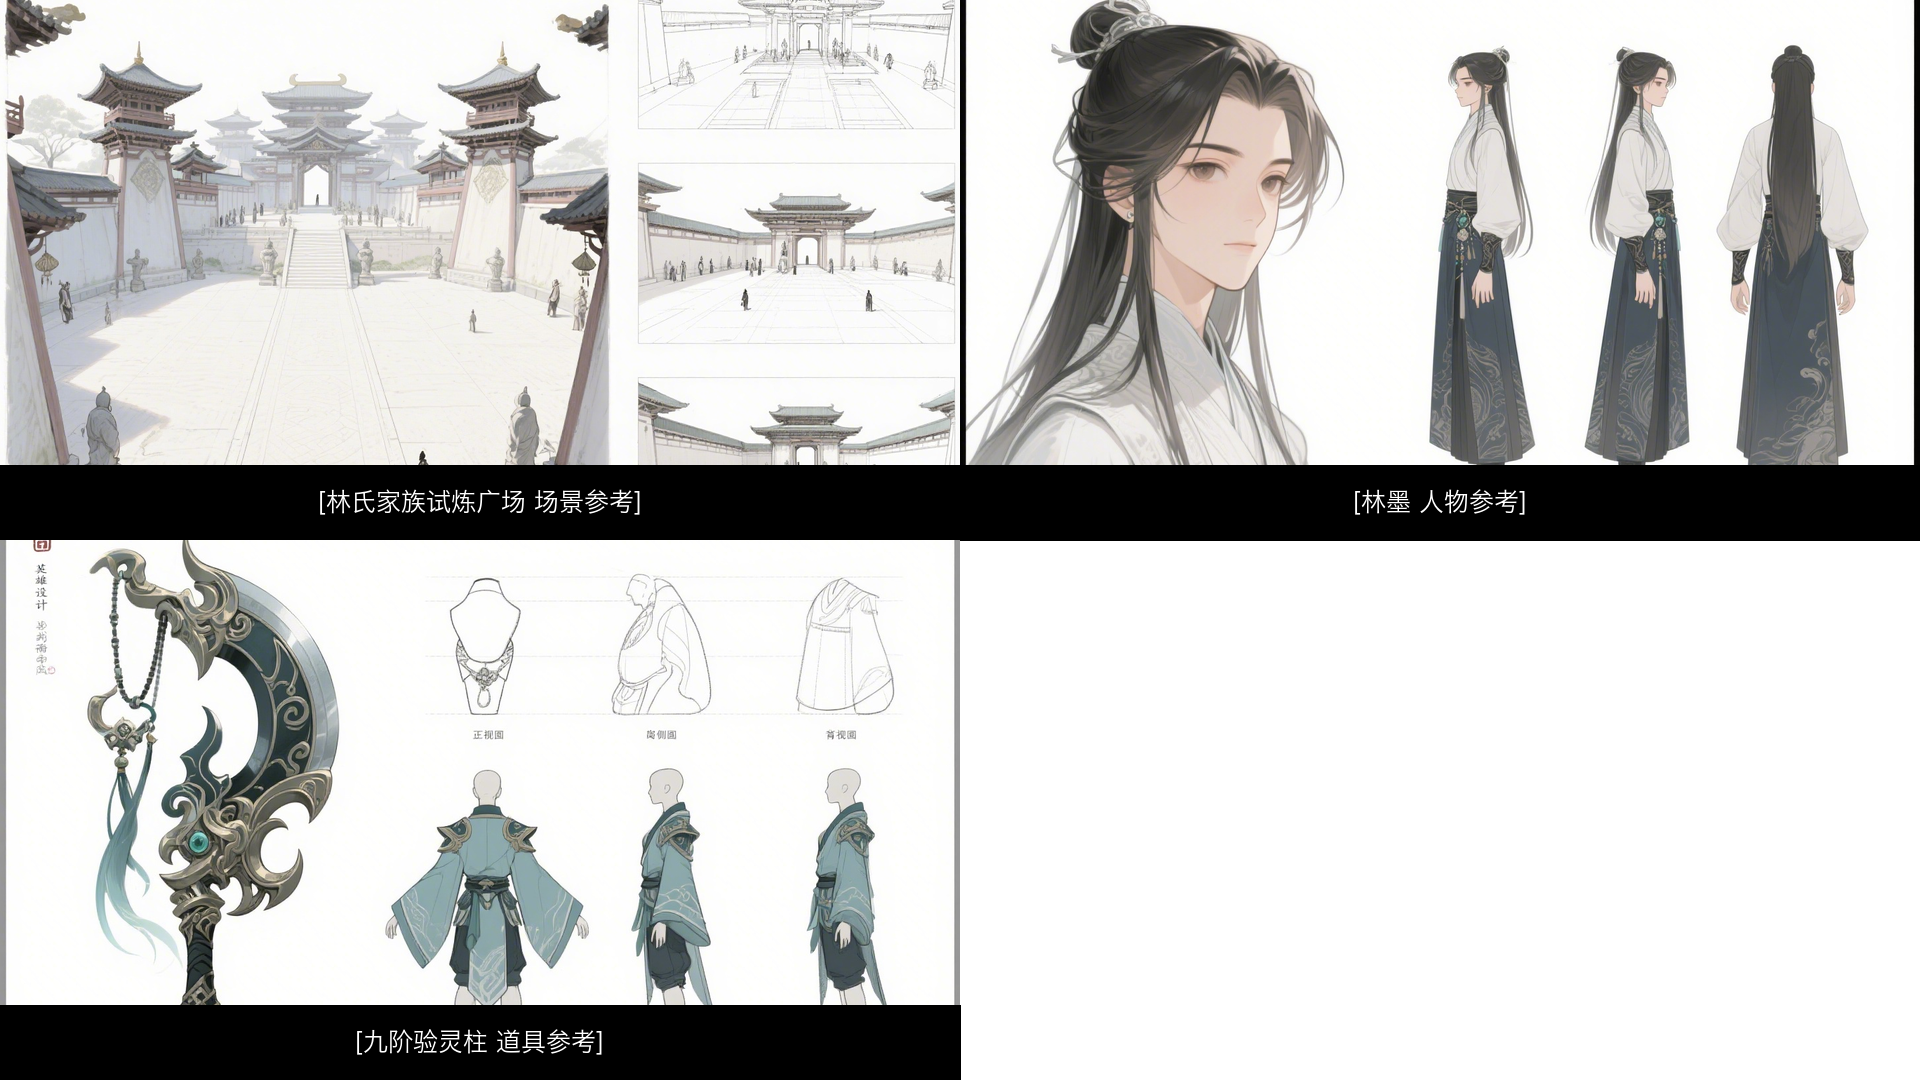
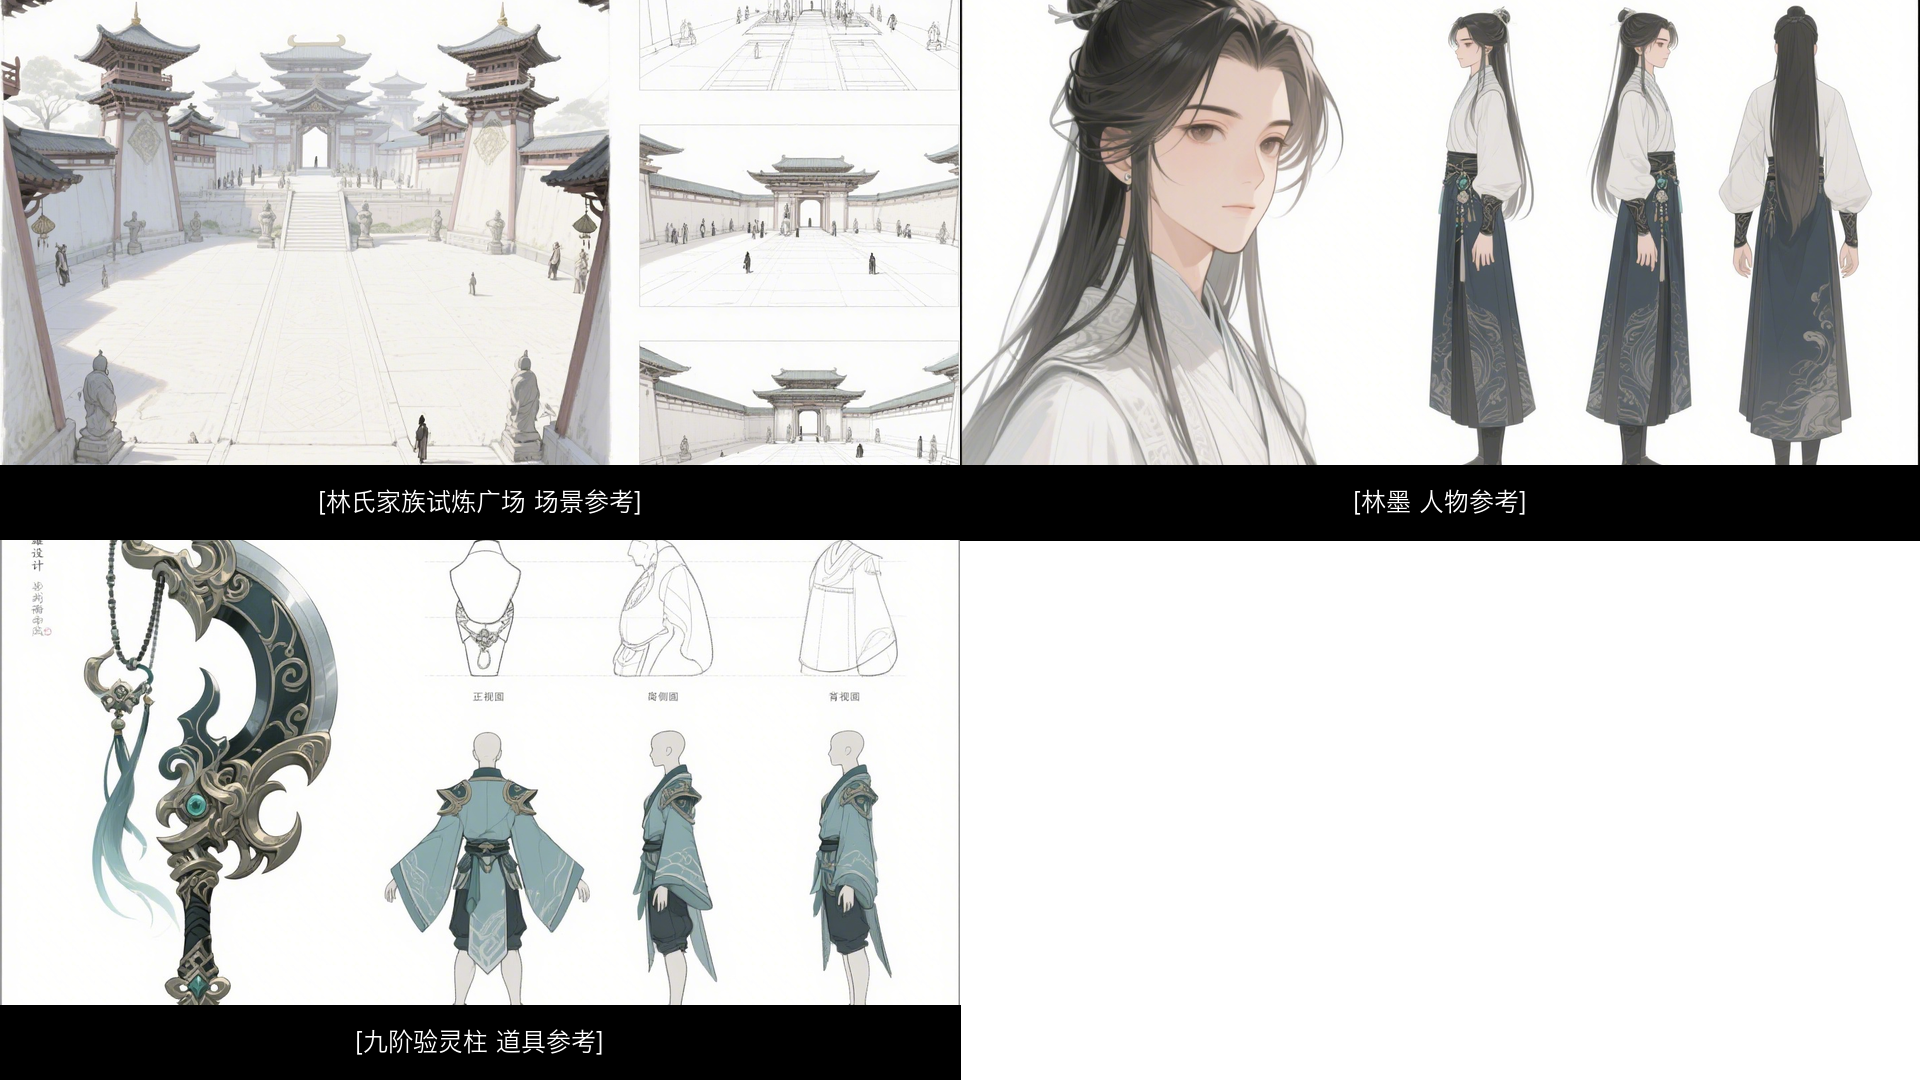
Refine run12 shot reference boards

diff --git a/pipeline/shot_reference_boards.py b/pipeline/shot_reference_boards.py
@@ -29,7 +29,7 @@ LABEL_SIDE_PADDING_PX = 24
 LABEL_FONT_MIN_SIZE = 18
 LABEL_FONT_DIVISOR = 3
 BORDER_ACTIVITY_STD_THRESHOLD = 14.0
-TRIM_BACKOFF_PX = 8
+TRIM_BACKOFF_PX = 2
 MAX_VERTICAL_TRIM_RATIO = 0.12
 MAX_HORIZONTAL_TRIM_RATIO = 0.08
 
@@ -288,24 +288,40 @@ def resize_cover(image: Image.Image, target_width: int, target_height: int) -> I
     return resized.crop((crop_left, crop_top, crop_right, crop_bottom))
 
 
-def render_slot_label(
-    *,
-    draw: ImageDraw.ImageDraw,
-    font_path: Path,
-    box: dict[str, int],
-    label_text: str,
-) -> None:
+def split_slot_box(box: dict[str, int]) -> tuple[dict[str, int], dict[str, int]]:
     label_height = max(
         LABEL_BAR_MIN_HEIGHT_PX,
         min(LABEL_BAR_MAX_HEIGHT_PX, int(box["height"] * LABEL_BAR_HEIGHT_RATIO)),
     )
-    label_top = int(box["y"]) + int(box["height"]) - label_height
+    image_height = max(1, int(box["height"]) - label_height)
+    image_box = {
+        "x": int(box["x"]),
+        "y": int(box["y"]),
+        "width": int(box["width"]),
+        "height": image_height,
+    }
+    label_box = {
+        "x": int(box["x"]),
+        "y": int(box["y"]) + image_height,
+        "width": int(box["width"]),
+        "height": label_height,
+    }
+    return image_box, label_box
+
+
+def render_slot_label(
+    *,
+    draw: ImageDraw.ImageDraw,
+    font_path: Path,
+    label_box: dict[str, int],
+    label_text: str,
+) -> None:
     draw.rectangle(
         (
-            int(box["x"]),
-            label_top,
-            int(box["x"]) + int(box["width"]),
-            int(box["y"]) + int(box["height"]),
+            int(label_box["x"]),
+            int(label_box["y"]),
+            int(label_box["x"]) + int(label_box["width"]),
+            int(label_box["y"]) + int(label_box["height"]),
         ),
         fill=LABEL_BAR_FILL,
     )
@@ -314,12 +330,12 @@ def render_slot_label(
         draw,
         label_text,
         font_path,
-        max_width=int(box["width"]) - 2 * LABEL_SIDE_PADDING_PX,
-        font_size=max(LABEL_FONT_MIN_SIZE, label_height // LABEL_FONT_DIVISOR),
+        max_width=int(label_box["width"]) - 2 * LABEL_SIDE_PADDING_PX,
+        font_size=max(LABEL_FONT_MIN_SIZE, int(label_box["height"]) // LABEL_FONT_DIVISOR),
     )
     left, top, right, bottom = draw.textbbox((0, 0), label_text, font=font)
-    text_x = int(box["x"]) + (int(box["width"]) - (right - left)) // 2
-    text_y = label_top + (label_height - (bottom - top)) // 2 - top
+    text_x = int(label_box["x"]) + (int(label_box["width"]) - (right - left)) // 2
+    text_y = int(label_box["y"]) + (int(label_box["height"]) - (bottom - top)) // 2 - top
     draw.text((text_x, text_y), label_text, fill=LABEL_TEXT_FILL, font=font)
 
 
@@ -332,14 +348,13 @@ def render_board_image(slots: list[dict[str, object]], output_path: Path) -> Non
         source_image_path = Path(str(slot["source_image_path"]))
         image = trim_uniform_border(Image.open(source_image_path).convert("RGB"))
         box = slot["target_box"]
-        box_width = int(box["width"])
-        box_height = int(box["height"])
-        resized = resize_cover(image, box_width, box_height)
-        canvas.paste(resized, (int(box["x"]), int(box["y"])))
+        image_box, label_box = split_slot_box(box)
+        resized = resize_cover(image, image_box["width"], image_box["height"])
+        canvas.paste(resized, (image_box["x"], image_box["y"]))
         render_slot_label(
             draw=draw,
             font_path=font_path,
-            box=box,
+            label_box=label_box,
             label_text=str(slot["label_text"]),
         )
 

diff --git a/memory-bank/progress.md b/memory-bank/progress.md
@@ -312,6 +312,7 @@ The project now has:
 - `run12` shot reference boards were regenerated after the layout tightening pass:
   - `07_shot_reference_boards/boards/*.png` now use zero outer padding and zero gutter
   - occupied cells now fill their quarter/half-grid areas much more tightly than the previous `contain` layout
+  - slot labels now use reserved bottom bands instead of overlaying the imagery, which removed the visible occlusion in `shot_012`
   - `08_video_jobs/video_jobs.json` still validates afterward and remains blocked only by missing public `board_public_url` values
 - `run12` has now also been republished into the repo-local `static/` tree with jsDelivr URL placeholders:
   - `runs/run12/07_shot_reference_boards/board_publish_result.json` points at `https://cdn.jsdelivr.net/gh/tg929/AI-studio@main/static/runs/run12/...`

diff --git a/memory-bank/architecture.md b/memory-bank/architecture.md
@@ -222,7 +222,8 @@ Current role:
 - Chooses a fixed grid template from asset count
 - Trims uniform outer borders from raw asset reference images before placement
 - Uses edge-to-edge grid cells plus cover-fit composition so each occupied slot fills its assigned area
-- Renders a consistent local black label bar inside each occupied slot instead of reusing the padded labeled-card bitmap directly
+- Reserves a dedicated bottom label area per occupied slot so labels do not occlude the rendered reference imagery
+- Renders a consistent local black label bar from clean text instead of reusing the padded labeled-card bitmap directly
 - Renders one PNG stitched board per shot using local image composition only
 - Writes `shot_reference_manifest.json`
 
